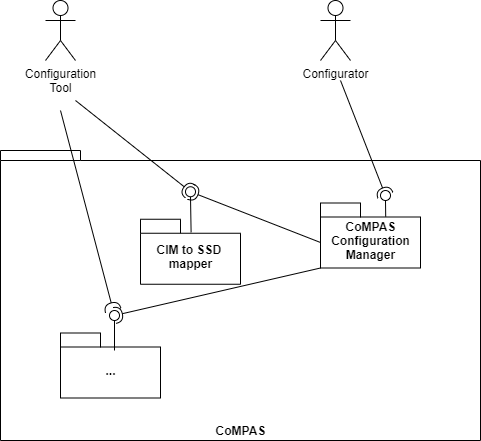
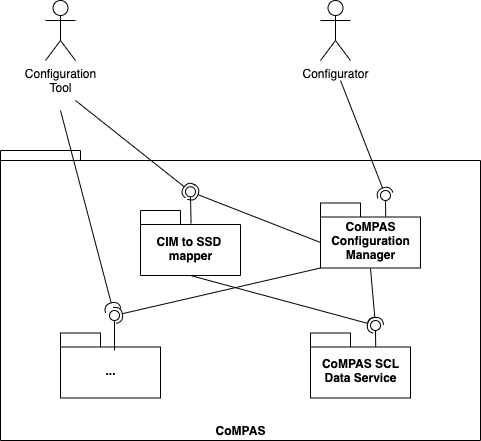
Added CoMPAS SCL Data Service to Functional Architecture

diff --git a/FUNCTIONAL_ARCHITECTURE.md b/FUNCTIONAL_ARCHITECTURE.md
@@ -42,6 +42,7 @@ This diagram shows the services within CoMPAS. Currently following (micro)servic
 | --- | --- |
 | [**CIM to SSD Mapper**](CIM_61850_MAPPING.md) |  A service that maps a CIM representation of a substation to an IEC61850 System Specification Description (SSD) file |
 | **CoMPAS Configuration Manager** | Example configuration tool, as web page, based on [OpenSCD](https://github.com/openscd/open-scd). CoMPAS microservices can be used to create own configuration tooling. CoMPASS Configuration Manager serves as an example of such a tool. |
+| **CoMPAS SCL Data Service** | A service handling the storage of SCL files, hosted on [Github](https://github.com/com-pas/compas-scl-data-service). Besides hosting SCL files, it also offers APIs for storing and retrieving these SCL files. |
 
 _**More services to be added**_
 
